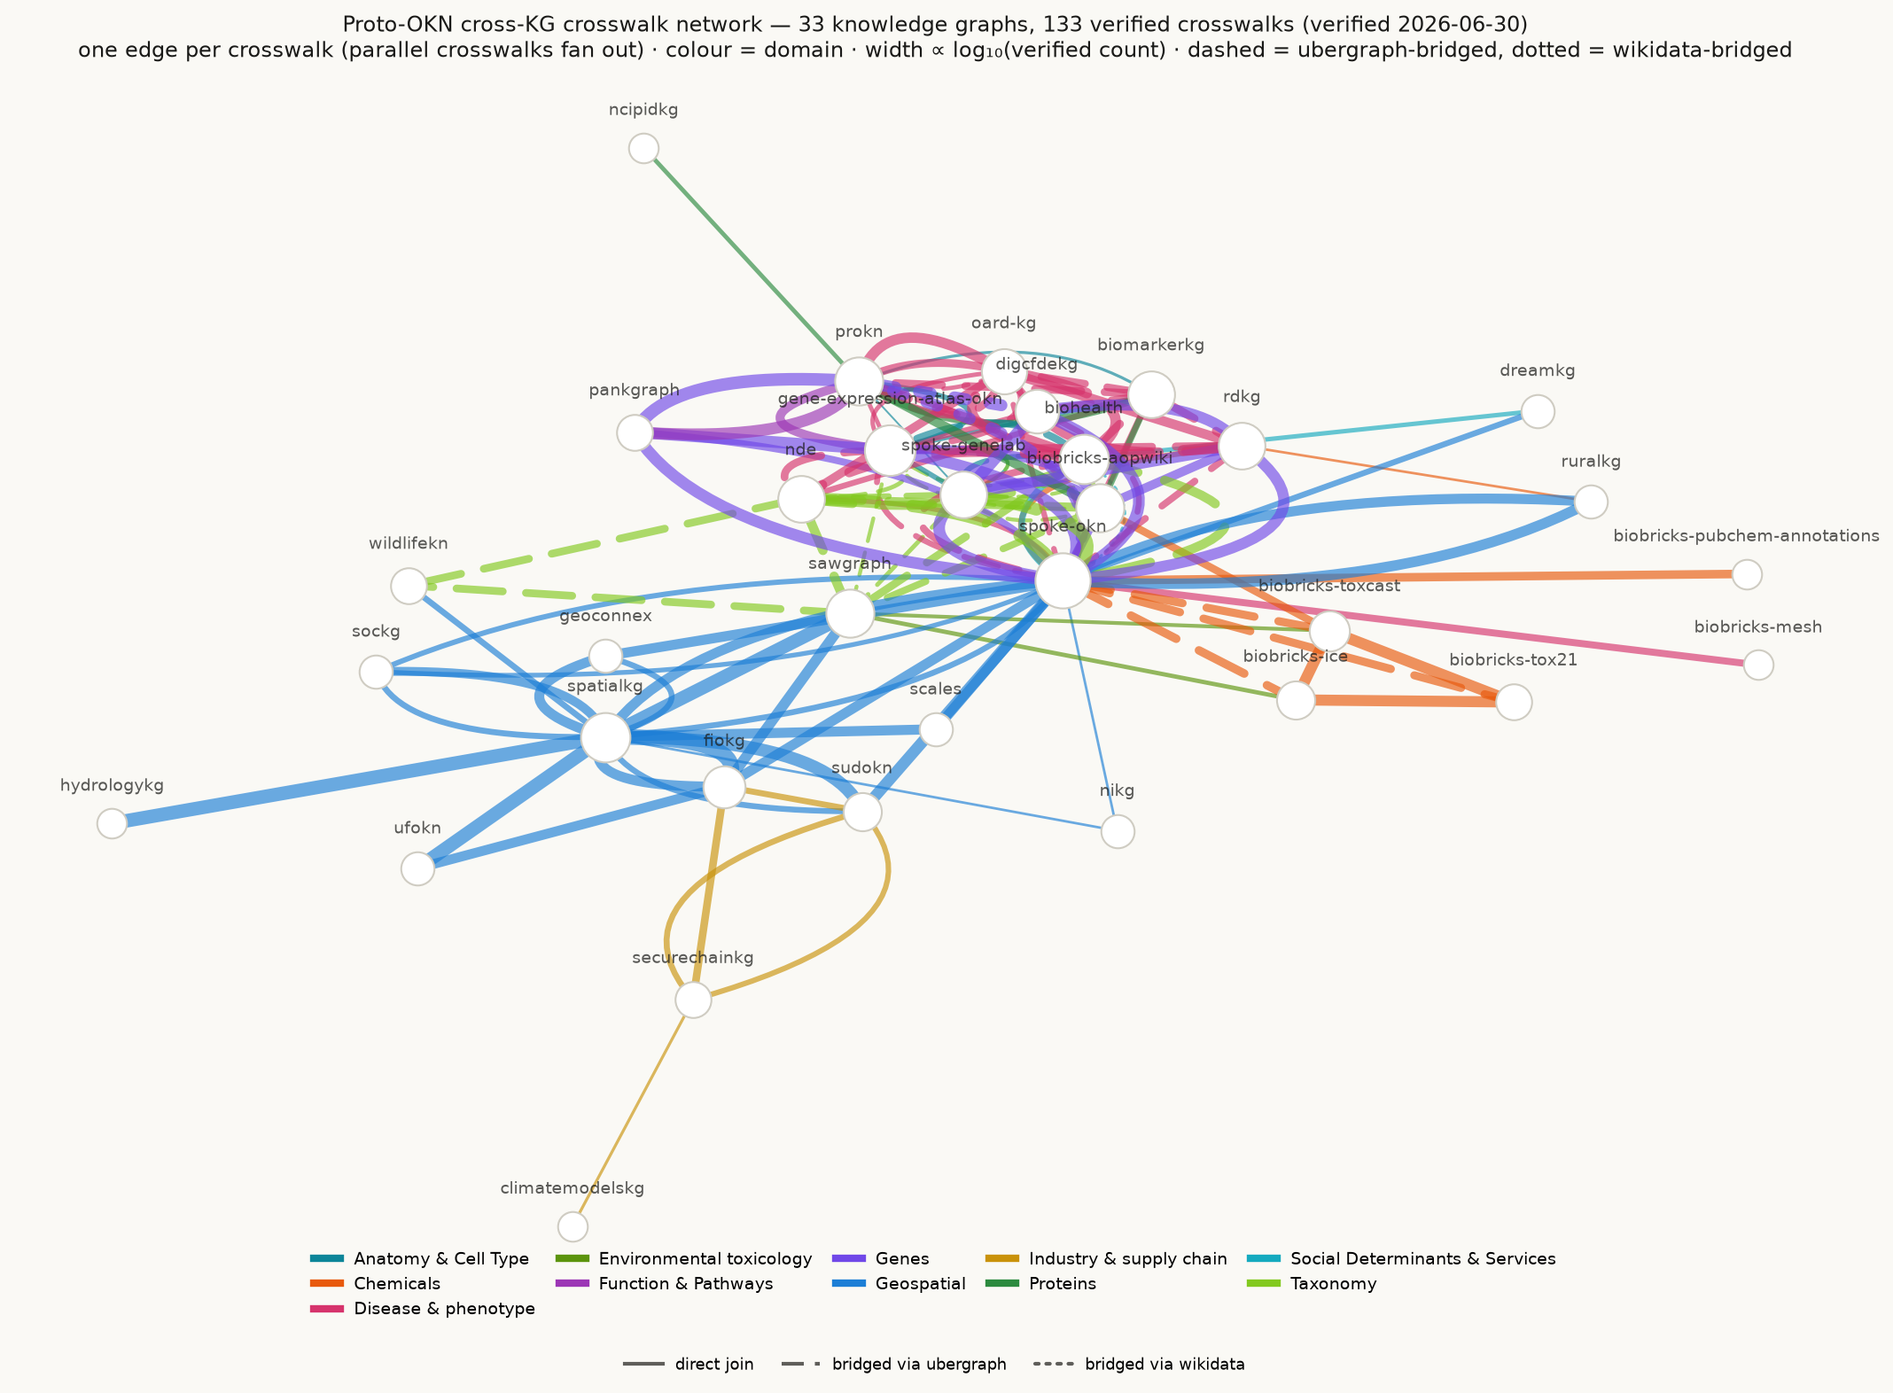
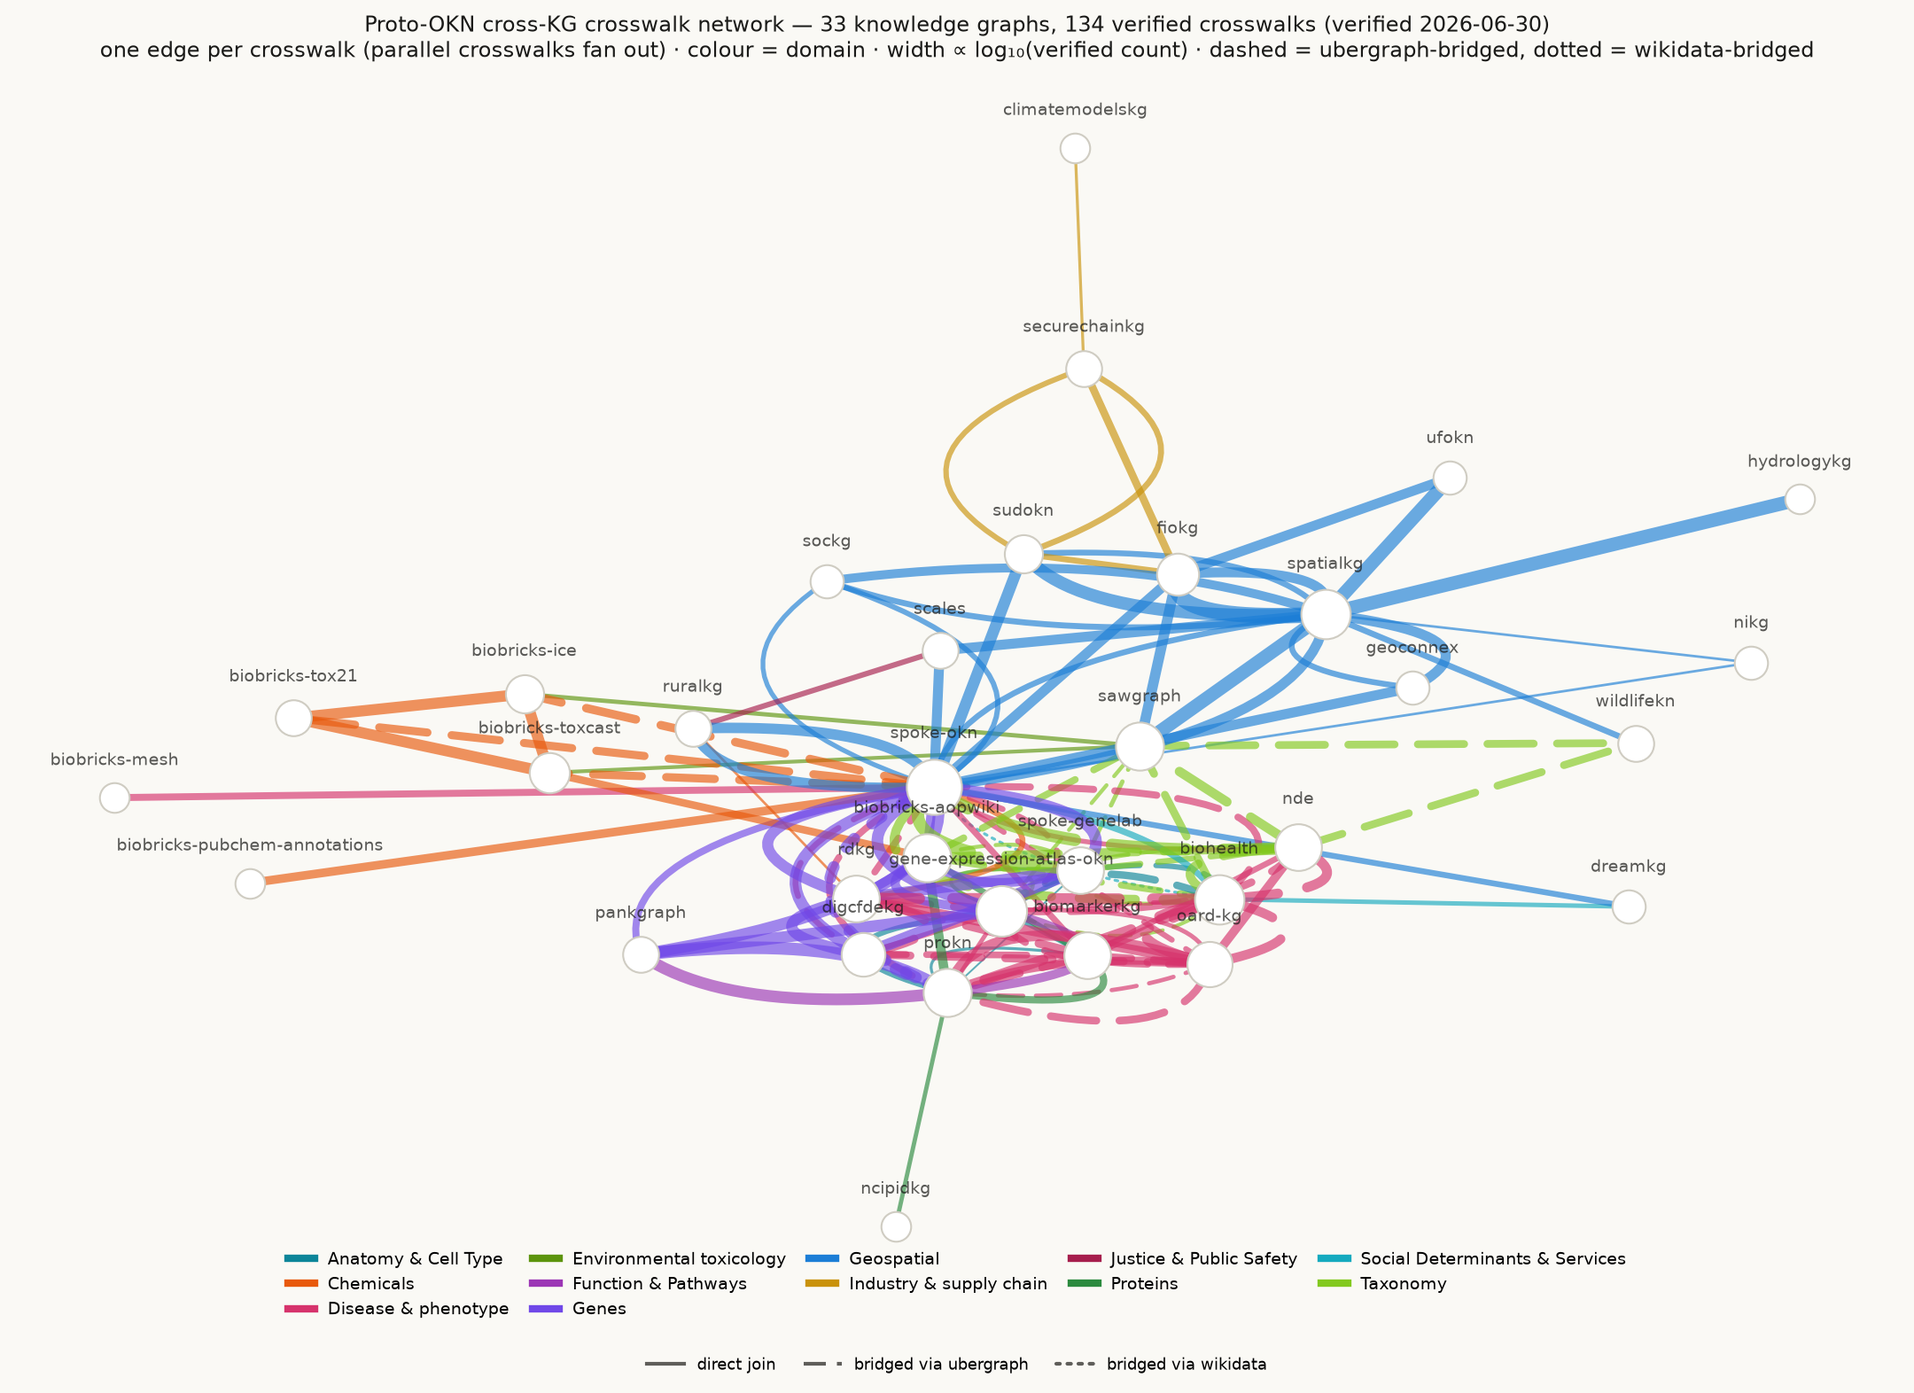
feat(crosswalks): add scales<->ruralkg NIBRS offense-type crosswalk (CJ1) + 2 examples
The 2026-07-01 scales entities.csv update added the populated fbi:OffenseUCRCode
predicate (2.69M jxdm:Charge triples). It shares 37 distinct FBI NIBRS offense
categories with ruralkg's rural crime-data codebook (variable/answerContent on
NIBRSAnswer nodes, which also carry the matching NIBRS answerCode) — a
controlled-vocabulary join, verified live (COUNT DISTINCT = 37), reaching 165
ruralkg codebook variables. It's an offense-TYPE axis, complementary to and
independent of the county-FIPS axis on which scales already meets spatialkg (L4)
and spoke-okn (L5).

Caveats baked into the recipe: categorical join (37 offense categories), not
case-level identity; must bind the SAME literal variable in both GRAPH blocks —
a cross-graph FILTER string-equality silently returns 0 on this federation.

Also noted: the sibling new predicates niem fips:CountyCode, LocaleCensusBlockID
and the postal-code predicates were added to the schema but carry 0 triples
(schema-only, not usable); existing L4/L5 hasIdbCounty joins remain intact
(3,130 live county values, predicate dropped from the curated CSV but not the data).

- metadata/crosswalks.json: add CJ1-nibrs-offense-scales-ruralkg (new
  "Justice & Public Safety" domain); sync bundled copy
- verify_skeletons.py: author the CJ1 skeleton (verified got=37 expected=37)
- build_crosswalk_network.py: register the Justice & Public Safety domain
  (code J); regenerate crosswalk-network.{html,png} (134 crosswalks, 33 nodes)
[…]

diff --git a/docs/crosswalks/crosswalk-network.html b/docs/crosswalks/crosswalk-network.html
@@ -43,7 +43,7 @@
 <body>
 <header>
   <h1>Proto-OKN cross-KG crosswalk network</h1>
-  <p>33 knowledge graphs, 133 verified crosswalks (verified 2026-06-30). One edge per crosswalk &mdash; parallel crosswalks between a pair fan out as arcs · color = data domain · width &#8733; log&#8321;&#8320;(verified count).</p>
+  <p>33 knowledge graphs, 134 verified crosswalks (verified 2026-06-30). One edge per crosswalk &mdash; parallel crosswalks between a pair fan out as arcs · color = data domain · width &#8733; log&#8321;&#8320;(verified count).</p>
   <p class="tip">&#9654; <b>Hover</b> a node or edge for detail · <b>drag</b> to rearrange · <b>scroll</b> to zoom · <b>double-click</b> a node to unpin it.<br>&#9654; <b>Click a legend item</b> &mdash; a domain (e.g. <b>Chemicals</b>) or a line style (e.g. <b>via ubergraph</b>) &mdash; to toggle those edges.</p>
 </header>
 <div class="bar" id="legend"></div>
@@ -67,7 +67,7 @@
 </script>
 <script>
 (function(){
-const DOM={A:["Anatomy & Cell Type","#0C8599"],C:["Chemicals","#E8590C"],D:["Disease & phenotype","#D6336C"],E:["Environmental toxicology","#5C940D"],F:["Function & Pathways","#9C36B5"],G:["Genes","#7048E8"],S:["Geospatial","#1C7ED6"],I:["Industry & supply chain","#C9920A"],P:["Proteins","#2B8A3E"],L:["Social Determinants & Services","#15AABF"],T:["Taxonomy","#82C91E"]};
+const DOM={A:["Anatomy & Cell Type","#0C8599"],C:["Chemicals","#E8590C"],D:["Disease & phenotype","#D6336C"],E:["Environmental toxicology","#5C940D"],F:["Function & Pathways","#9C36B5"],G:["Genes","#7048E8"],S:["Geospatial","#1C7ED6"],I:["Industry & supply chain","#C9920A"],J:["Justice & Public Safety","#A61E4D"],P:["Proteins","#2B8A3E"],L:["Social Determinants & Services","#15AABF"],T:["Taxonomy","#82C91E"]};
 const BRIDGES=new Set();
 const R=[
 ["A",["biomarkerkg","gene-expression-atlas-okn"],8,"CL"],
@@ -183,6 +183,8 @@ const R=[
 ["I",["securechainkg","sudokn"],35,"NAICS"],
 ["I",["securechainkg","sudokn"],58,"SUDOKN_industry_sector"],
 ["I",["climatemodelskg","securechainkg"],3,"climatemodelskg Source IRI"],
+
+["J",["scales","ruralkg"],37,"NIBRS_offense_category"],
 
 ["P",["biobricks-aopwiki","prokn"],1805,"UniProt"],
 ["P",["biomarkerkg","biobricks-aopwiki"],84,"UniProt"],

diff --git a/scripts/verify_skeletons.py b/scripts/verify_skeletons.py
@@ -521,6 +521,17 @@ SELECT (COUNT(DISTINCT ?fips) AS ?n) WHERE {{
   GRAPH {g("sockg")} {{ ?reg ?q ?r . }}
 }}"""
 
+# --- Justice: NIBRS offense category ---------------------------------------
+# scales fbi:OffenseUCRCode (offense name on jxdm:Charge) meets ruralkg's rural
+# crime-data codebook (variable/answerContent on NIBRSAnswer) on the shared FBI
+# NIBRS offense-category vocabulary. Join by binding the SAME literal variable in
+# both graphs — a cross-graph FILTER string-equality silently returns 0 here.
+Q["CJ1-nibrs-offense-scales-ruralkg"] = f"""
+SELECT (COUNT(DISTINCT ?off) AS ?n) WHERE {{
+  GRAPH {g("scales")} {{ ?ch <http://fbi.gov/cjis/nibrs/2023.0/OffenseUCRCode> ?off . }}
+  GRAPH {g("ruralkg")} {{ ?ans <http://sail.ua.edu/ruralkg/variable/answerContent> ?off . }}
+}}"""
+
 Q["H2-county"] = f"""
 SELECT (COUNT(DISTINCT ?reg) AS ?n) WHERE {{
   GRAPH {g("sockg")} {{ ?reg a <http://stko-kwg.geog.ucsb.edu/lod/ontology/AdministrativeRegion_2> . }}

diff --git a/scripts/build_crosswalk_network.py b/scripts/build_crosswalk_network.py
@@ -52,13 +52,14 @@ DOMAIN_CODE = {
     "Function & Pathways": "F",
     "Social Determinants & Services": "L",
     "Environmental toxicology": "E",
+    "Justice & Public Safety": "J",
     "Other": "O",
 }
 # fallback colours for domains not already present in the file's DOM
 DEFAULT_COLORS = {
     "C": "#E8590C", "D": "#D6336C", "G": "#7048E8", "S": "#1C7ED6",
     "I": "#C9920A", "P": "#2B8A3E", "T": "#82C91E", "A": "#0C8599",
-    "F": "#9C36B5", "L": "#15AABF", "E": "#5C940D", "O": "#868E96",
+    "F": "#9C36B5", "L": "#15AABF", "E": "#5C940D", "J": "#A61E4D", "O": "#868E96",
 }
 
 

diff --git a/docs/crosswalks/crosswalks_examples/justice01_q1_scales-ruralkg_nibrs-offense-bridge.md b/docs/crosswalks/crosswalks_examples/justice01_q1_scales-ruralkg_nibrs-offense-bridge.md
@@ -1,0 +1,66 @@
+# justice01_q1_scales-ruralkg — NIBRS offense categories bridging federal charges to the rural crime codebook
+
+- **Date:** 2026-07-01
+- **Model:** claude-opus-4-8
+- **SPARQL endpoint:** https://apps.okn.us/federation/sparql
+
+## Knowledge graphs used
+- `scales` — <https://purl.org/okn/frink/kg/scales>
+- `ruralkg` — <https://purl.org/okn/frink/kg/ruralkg>
+
+## Conversation
+👤 **User**
+SCALES tags every federal-court charge with an FBI NIBRS offense category on `fbi:OffenseUCRCode` (a plain string like "Aggravated Assault"). RuralKG embeds a rural crime-data codebook whose `variable/answerContent` NIBRS answer options use the *same* FBI offense vocabulary, each with its NIBRS `answerCode`. Joining on the shared offense name: which NIBRS offense categories carry the most federal charges in SCALES **and** are instrumented in RuralKG's codebook, and what is each one's NIBRS code?
+
+---
+🧠 **Assistant**
+SCALES and RuralKG share no entity identifiers, but both ingest the FBI NIBRS crime taxonomy, so the offense-category *name* is a controlled-vocabulary key. I aggregate SCALES charges per offense name, then join each name directly to RuralKG's `answerContent` (binding the **same** literal variable in both graphs — a cross-graph `FILTER` string-equality silently returns nothing on this federation) and read RuralKG's NIBRS `answerCode`.
+
+| NIBRS offense | NIBRS code | Federal charges (SCALES) | RuralKG answer entries |
+| --- | --- | --- | --- |
+| All Other Offenses | 990 | 1,621,489 | 2 |
+| Simple Assault | 132 | 177,758 | 5 |
+| Drug/Narcotic Violations | 351 | 86,454 | 5 |
+| Driving Under the Influence | 904 | 72,809 | 2 |
+| Trespass of Real Property | 910 | 63,407 | 2 |
+| Weapon Law Violations | 520 | 44,087 | 5 |
+| Disorderly Conduct | 903 | 43,084 | 2 |
+| False Pretenses/Swindle/Confidence Game | 261 | 40,631 | 5 |
+| Aggravated Assault | 131 | 34,298 | 5 |
+| Shoplifting | 233 | 32,049 | 5 |
+
+The join works and answers the question directly: 37 NIBRS offense categories are shared in total, and the table ranks the busiest by federal charge volume with each one's NIBRS code confirming the vocabulary alignment (131 = Aggravated Assault, 351 = Drug/Narcotic Violations, 520 = Weapon Law Violations). The "answer entries" column tracks the NIBRS Group A/B split visible in the codes: the substantive Group A offenses (assault 13x, drug 35x, weapon 520, fraud 261, larceny 23x) each appear in **5** RuralKG codebook answer entries, while the Group B / arrest-only categories (990, 904, 910, 903) appear in **2**. The dominant SCALES value is the catch-all "All Other Offenses" (990) at 1.6M charges — worth excluding when comparing *specific* offense types. This is a **categorical** bridge (offense type), complementary to and independent of the county-FIPS axis on which SCALES already meets SpatialKG and spoke-okn: it lets federal charge activity be compared by offense type against RuralKG's rural crime-reporting instrumentation, not to link individual cases.
+
+## SPARQL queries executed
+#### Query 1
+_`scales`, `ruralkg` · 12 rows (showing first 10)_
+```sparql
+PREFIX fbi: <http://fbi.gov/cjis/nibrs/2023.0/>
+PREFIX rk: <http://sail.ua.edu/ruralkg/variable/>
+SELECT ?offense (SAMPLE(?code) AS ?nibrsCode) ?federalCharges (COUNT(DISTINCT ?ans) AS ?ruralkgAnswers) WHERE {
+  {
+    SELECT ?offense (COUNT(?charge) AS ?federalCharges) WHERE {
+      GRAPH <https://purl.org/okn/frink/kg/scales> {
+        ?charge fbi:OffenseUCRCode ?offense .
+      }
+    } GROUP BY ?offense
+  }
+  GRAPH <https://purl.org/okn/frink/kg/ruralkg> {
+    ?ans rk:answerContent ?offense ; rk:answerCode ?code .
+  }
+} GROUP BY ?offense ?federalCharges ORDER BY DESC(?federalCharges) LIMIT 12
+```
+| NIBRS offense | NIBRS code | Federal charges | RuralKG answer entries |
+| --- | --- | --- | --- |
+| All Other Offenses | 990 | 1621489 | 2 |
+| Simple Assault | 132 | 177758 | 5 |
+| Drug/Narcotic Violations | 351 | 86454 | 5 |
+| Driving Under the Influence | 904 | 72809 | 2 |
+| Trespass of Real Property | 910 | 63407 | 2 |
+| Weapon Law Violations | 520 | 44087 | 5 |
+| Disorderly Conduct | 903 | 43084 | 2 |
+| False Pretenses/Swindle/Confidence Game | 261 | 40631 | 5 |
+| Aggravated Assault | 131 | 34298 | 5 |
+| Shoplifting | 233 | 32049 | 5 |
+
+**Crosswalk:** `CJ1-nibrs-offense-scales-ruralkg` — shared key: FBI NIBRS offense-category name (37 shared categories). Controlled-vocabulary join; no bridge graph.

diff --git a/docs/crosswalks/crosswalks_examples/justice01_q2_scales-ruralkg_drug-offense-instrumentation.md b/docs/crosswalks/crosswalks_examples/justice01_q2_scales-ruralkg_drug-offense-instrumentation.md
@@ -1,0 +1,55 @@
+# justice01_q2_scales-ruralkg — federal drug prosecutions aligned to RuralKG's crime-reporting variables
+
+- **Date:** 2026-07-01
+- **Model:** claude-opus-4-8
+- **SPARQL endpoint:** https://apps.okn.us/federation/sparql
+
+## Knowledge graphs used
+- `scales` — <https://purl.org/okn/frink/kg/scales>
+- `ruralkg` — <https://purl.org/okn/frink/kg/ruralkg>
+
+## Conversation
+👤 **User**
+Drug enforcement is a large share of the federal docket. Using the NIBRS offense vocabulary shared by SCALES (`fbi:OffenseUCRCode` on charges) and RuralKG (`variable/answerContent` on NIBRS answer nodes), how many federal charges does SCALES record for the two drug offense categories, and which RuralKG rural crime-reporting **variables** instrument those same categories (with an example)?
+
+---
+🧠 **Assistant**
+I restrict the shared offense key to the two NIBRS drug categories, count SCALES federal charges for each, and follow RuralKG's `hasAnswer` link from the matching answer node up to its parent codebook **variable** (`generatedDescription` gives a human-readable variable summary). The join is on the offense name bound as the same literal variable across both graphs.
+
+| NIBRS offense | NIBRS code | Federal charges (SCALES) | RuralKG variables | Example RuralKG variable |
+| --- | --- | --- | --- | --- |
+| Drug/Narcotic Violations | 351 | 86,454 | 5 | *UCR ARREST OFFENSE CODE - 1 … identifies the primary offense for which an arrest was made* |
+| Drug Equipment Violations | 352 | 10,536 | 5 | *UCR ARREST OFFENSE CODE … a categorical variable that identifies specific offenses associated with arrests* |
+
+The two graphs meet cleanly on the NIBRS drug codes (351 = Drug/Narcotic Violations, 352 = Drug Equipment Violations). SCALES supplies the federal *volume* — 86,454 narcotic-violation charges and 10,536 drug-equipment charges — while RuralKG supplies the *instrumentation*: each drug category is a response value in 5 rural crime-reporting codebook variables, headed by the NIBRS "UCR ARREST OFFENSE CODE" family that records the primary arrest offense. The crosswalk lets an analyst place federal drug-charge counts alongside the rural arrest-reporting variables that capture the same offense taxonomy — a categorical, offense-type alignment (not a case-level link), complementary to the county-FIPS geography on which SCALES already joins the spatial graphs.
+
+## SPARQL queries executed
+#### Query 1
+_`scales`, `ruralkg` · 2 rows_
+```sparql
+PREFIX fbi: <http://fbi.gov/cjis/nibrs/2023.0/>
+PREFIX rk: <http://sail.ua.edu/ruralkg/variable/>
+SELECT ?offense ?nibrsCode ?federalCharges
+       (COUNT(DISTINCT ?parent) AS ?ruralkgVariables)
+       (SAMPLE(?desc) AS ?exampleVariable) WHERE {
+  VALUES ?offense { "Drug/Narcotic Violations" "Drug Equipment Violations" }
+  {
+    SELECT ?offense (COUNT(?charge) AS ?federalCharges) WHERE {
+      GRAPH <https://purl.org/okn/frink/kg/scales> {
+        ?charge fbi:OffenseUCRCode ?offense .
+      }
+    } GROUP BY ?offense
+  }
+  GRAPH <https://purl.org/okn/frink/kg/ruralkg> {
+    ?ans rk:answerContent ?offense ; rk:answerCode ?nibrsCode .
+    ?parent rk:hasAnswer ?ans .
+    OPTIONAL { ?parent rk:generatedDescription ?desc }
+  }
+} GROUP BY ?offense ?nibrsCode ?federalCharges ORDER BY DESC(?federalCharges)
+```
+| NIBRS offense | NIBRS code | Federal charges | RuralKG variables | Example RuralKG variable |
+| --- | --- | --- | --- | --- |
+| Drug/Narcotic Violations | 351 | 86454 | 5 | UCR ARREST OFFENSE CODE - 1 is a variable that identifies the primary offense for which an arrest was made, aiding in comprehensive crime data analysis and reporting. |
+| Drug Equipment Violations | 352 | 10536 | 5 | UCR ARREST OFFENSE CODE is a categorical variable that identifies specific offenses associated with arrests, aiding in standardized crime reporting and analysis. |
+
+**Crosswalk:** `CJ1-nibrs-offense-scales-ruralkg` — shared key: FBI NIBRS offense-category name. Controlled-vocabulary join; no bridge graph.

diff --git a/README.md b/README.md
@@ -56,7 +56,7 @@ where a question one graph can't answer alone becomes answerable by combining tw
 This section catalogs the verified crosswalks and shows the queries that exercise
 them.
 
-A visual map of the whole network — all 133 crosswalks across 33 graphs, drawn as
+A visual map of the whole network — all 134 crosswalks across 33 graphs, drawn as
 direct KG-to-KG edges (edge width ∝ log of the verified join count). Each crosswalk is
 its own edge, so multiple crosswalks between the same pair of graphs fan out as parallel
 arcs. Identifier-bridged joins (e.g. `DOID↔MONDO` via `ubergraph`, `HGNC→Entrez` via
@@ -76,11 +76,11 @@ geospatial and industrial joins against their authoritative shared standard):
   key, row count, and a one-line note on what each answers. Start here to see which
   graphs connect and on what identifier.
 - **[Cross-KG crosswalk catalog](docs/crosswalks/crosswalks_example.md)** —
-  **266 example questions** drawn from the verified crosswalks — two per crosswalk,
+  **268 example questions** drawn from the verified crosswalks — two per crosswalk,
   except the spoke-genelab×spoke-okn Entrez join, illustrated twice (G10 expression +
-  G17 methylation), for 133 example pairs — across 11 domains (Anatomy & Cell Type, Chemicals, Disease & Phenotype,
+  G17 methylation), for 134 example pairs — across 12 domains (Anatomy & Cell Type, Chemicals, Disease & Phenotype,
   Environmental Toxicology, Function & Pathways, Genes, Geospatial, Industry & Supply
-  Chain, Proteins, Social Determinants & Services, Taxonomy), each with a
+  Chain, Justice & Public Safety, Proteins, Social Determinants & Services, Taxonomy), each with a
   full transcript.
 - **[Multi-domain integration catalog](docs/crosswalks/multi-domain-examples.md)**
   — 24 use cases that fuse *different* domains (e.g. toxicology × transcriptomics

diff --git a/docs/crosswalks/proto-okn-crosswalk-inventory.md b/docs/crosswalks/proto-okn-crosswalk-inventory.md
@@ -18,7 +18,7 @@ list crosswalks with examples
 
 🧠 **Assistant**
 
-Here are all 133 precomputed cross-KG crosswalks (verified through 2026-06-30), grouped by domain. Each shows the knowledge graphs joined, the shared identifier, the verified overlap count, and an example question the join answers.
+Here are all 134 precomputed cross-KG crosswalks (verified through 2026-06-30), grouped by domain. Each shows the knowledge graphs joined, the shared identifier, the verified overlap count, and an example question the join answers.
 
 ## Anatomy & Cell Type
 
@@ -165,6 +165,12 @@ Here are all 133 precomputed cross-KG crosswalks (verified through 2026-06-30), 
 | securechainkg ↔ sudokn | NAICS | 35 | For a manufacturing NAICS industry, list SUDOKN small/medium manufacturers (capabilities, certificates, capacity) and SecureChain supply-chain participants (software/hardware products and their vulnerabilities) in that same industry. |
 | securechainkg ↔ sudokn | SUDOKN_industry_sector | 58 | Cross-reference the industry sectors served by SUDOKN manufacturers with the industry sectors of SecureChain supply-chain participants (e.g. which suppliers to the aerospace or automotive sector appear in both graphs). |
 | climatemodelskg ↔ securechainkg | climatemodelskg Source IRI | 3 | Which climate models have the most vulnerable dependencies and the highest number of vulnerabilities? (CESM2, GFDL-ESM4 and GFDL-CM4 link through securechainkg sc:dependsOn to vulnerable PyPI packages and their CVEs.) |
+
+## Justice & Public Safety
+
+| KGs | Shared key | Count | Example |
+|---|---|---|---|
+| scales ↔ ruralkg | NIBRS_offense_category | 37 | Rank the NIBRS offense categories that both drive SCALES federal charges and appear in ruralkg's rural crime-data codebook, showing federal charge volume and the NIBRS answer code for each. |
 
 ## Proteins
 
